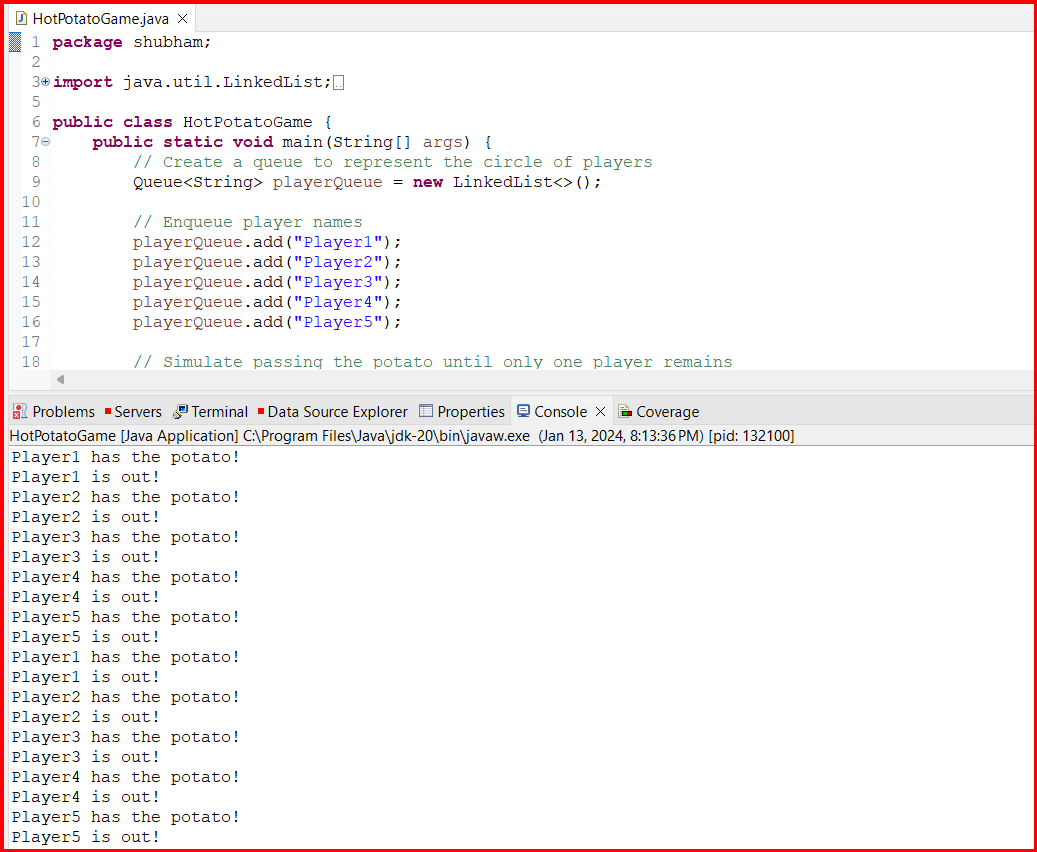
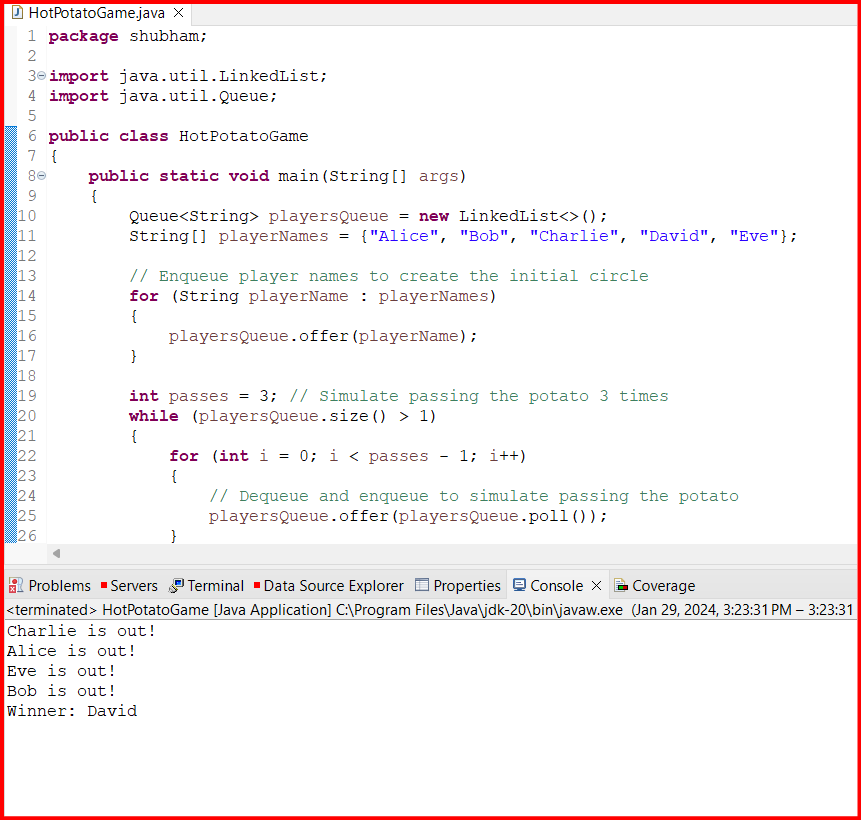
Code

diff --git a/Week-4 Seesion-2(Set _ Queue interface)/Assignment2/HotPotatoGame.java b/Week-4 Seesion-2(Set _ Queue interface)/Assignment2/HotPotatoGame.java
@@ -3,44 +3,41 @@
 ● Create a queue to represent the circle of players. 
 ● Enqueue player names. 
 ● Dequeue players one by one and enqueue them again to simulate passing the potato. 
-● Repeat the dequeue and enqueue process, simulating the music stopping and players being eliminated until only one player remains. */
+● Repeat the dequeue and enqueue process, simulating the music stopping and players being eliminated until only one player 
+remains. */
 
 package shubham;
 
 import java.util.LinkedList;
 import java.util.Queue;
 
-public class HotPotatoGame {
-    public static void main(String[] args) {
-        // Create a queue to represent the circle of players
-        Queue<String> playerQueue = new LinkedList<>();
+public class HotPotatoGame 
+{
+    public static void main(String[] args)
+    {
+        Queue<String> playersQueue = new LinkedList<>();
+        String[] playerNames = {"Alice", "Bob", "Charlie", "David", "Eve"};
 
-        // Enqueue player names
-        playerQueue.add("Player1");
-        playerQueue.add("Player2");
-        playerQueue.add("Player3");
-        playerQueue.add("Player4");
-        playerQueue.add("Player5");
-
-        // Simulate passing the potato until only one player remains
-        while (playerQueue.size() > 1) {
-            String currentPlayer = playerQueue.poll();
-            System.out.println(currentPlayer + " has the potato!");
-
-            // Simulate some delay (you can replace this with actual music playing logic)
-            try {
-                Thread.sleep(1000);
-            } catch (InterruptedException e) {
-                e.printStackTrace();
-            }
-
-            System.out.println(currentPlayer + " is out!");
-
-            // Enqueue the player again to simulate passing the potato
-            playerQueue.add(currentPlayer);
+        // Enqueue player names to create the initial circle
+        for (String playerName : playerNames)
+        {
+            playersQueue.offer(playerName);
         }
 
-        // The remaining player is the winner
-        System.out.println("Winner: " + playerQueue.poll());
+        int passes = 3; // Simulate passing the potato 3 times
+        while (playersQueue.size() > 1) 
+        {
+            for (int i = 0; i < passes - 1; i++)
+            {
+                // Dequeue and enqueue to simulate passing the potato
+                playersQueue.offer(playersQueue.poll());
+            }
+            
+            // The player holding the potato is eliminated
+            System.out.println(playersQueue.poll() + " is out!");
+        }
+
+        // The last player remaining wins
+        System.out.println("Winner: " + playersQueue.poll());
     }
 }

diff --git a/Week-6 Session -2(String Manipulation)/Assignment2/FileInfo.java b/Week-6 Session -2(String Manipulation)/Assignment2/FileInfo.java
@@ -1,0 +1,25 @@
+/* Write a program to print the location of file,size and name. */
+
+package shubham;
+
+import java.io.File;
+
+public class FileInfo {
+    public static void main(String[] args) {
+        // Replace "your_file_path" with the actual path of the file
+        String filePath = "your_file_path";
+        
+        // Create a File object
+        File file = new File(filePath);
+        
+        // Check if the file exists
+        if (file.exists()) {
+            // Print file information
+            System.out.println("File Location: " + file.getAbsolutePath());
+            System.out.println("File Size: " + file.length() + " bytes");
+            System.out.println("File Name: " + file.getName());
+        } else {
+            System.out.println("File not found!");
+        }
+    }
+}

diff --git a/Week-6 Session -2(String Manipulation)/Assignment3/TrimSpaces.java b/Week-6 Session -2(String Manipulation)/Assignment3/TrimSpaces.java
@@ -1,0 +1,17 @@
+/* Write a program to trim the unwanted space of the variables. */
+
+package shubham;
+
+public class TrimSpaces {
+    public static void main(String[] args) {
+        // String variable with leading and trailing spaces
+        String input = "   Trim   ";
+        
+        // Using trim() method to remove leading and trailing spaces
+        String trimmedString = input.trim();
+        
+        // Print the original and trimmed strings
+        System.out.println("Original String: '" + input + "'");
+        System.out.println("Trimmed String: '" + trimmedString + "'");
+    }
+}

diff --git a/Week-6 Session -2(String Manipulation)/Assignment1/JoinStrings.java b/Week-6 Session -2(String Manipulation)/Assignment1/JoinStrings.java
@@ -1,0 +1,19 @@
+/* Write a program to join two string. */
+
+package shubham;
+
+public class JoinStrings {
+    public static void main(String[] args) {
+        // Two strings to be joined
+        String str1 = "Hello";
+        String str2 = "World";
+
+        // Joining the strings using the concat() method
+        String result = str1.concat(" ").concat(str2);
+
+        // Alternatively, you can use the + operator for concatenation
+        // String result = str1 + " " + str2;
+
+        System.out.println("Joined String: " + result);
+    }
+}
